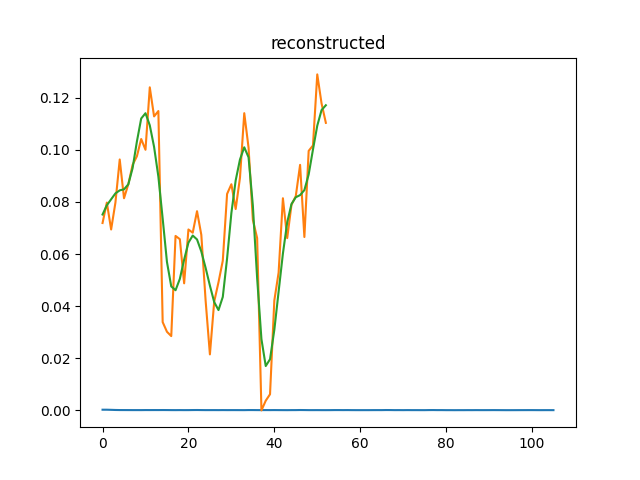
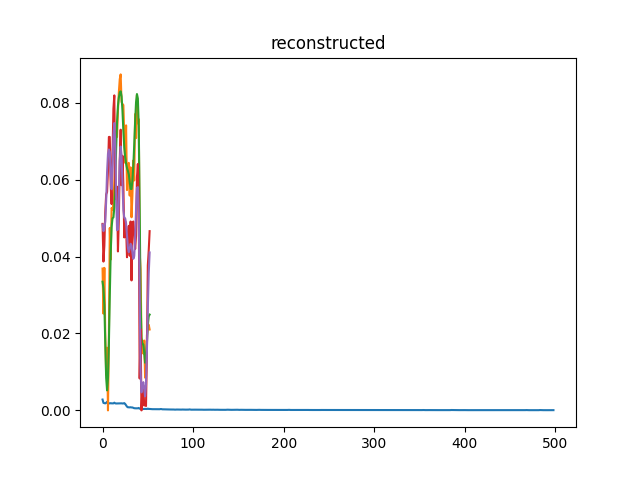
finishes

diff --git a/Assignment2/SaP500/SP500AE.py b/Assignment2/SaP500/SP500AE.py
@@ -14,7 +14,7 @@ import pandas as pd
 
 parser = argparse.ArgumentParser(description="Arguments of Toy AE")
 parser.add_argument('--batch_size', type=int, default=32, help="batch size")
-parser.add_argument('--epochs', type=int, default=300, help="number of epochs")
+parser.add_argument('--epochs', type=int, default=500, help="number of epochs")
 parser.add_argument('--optimizer', default='Adam', type=str, help="optimizer to use")
 parser.add_argument('--hidden_size', type=int, default=100, help="lstm hidden size")
 parser.add_argument('--num_of_layers', type=int, default=3, help="num of layers")
